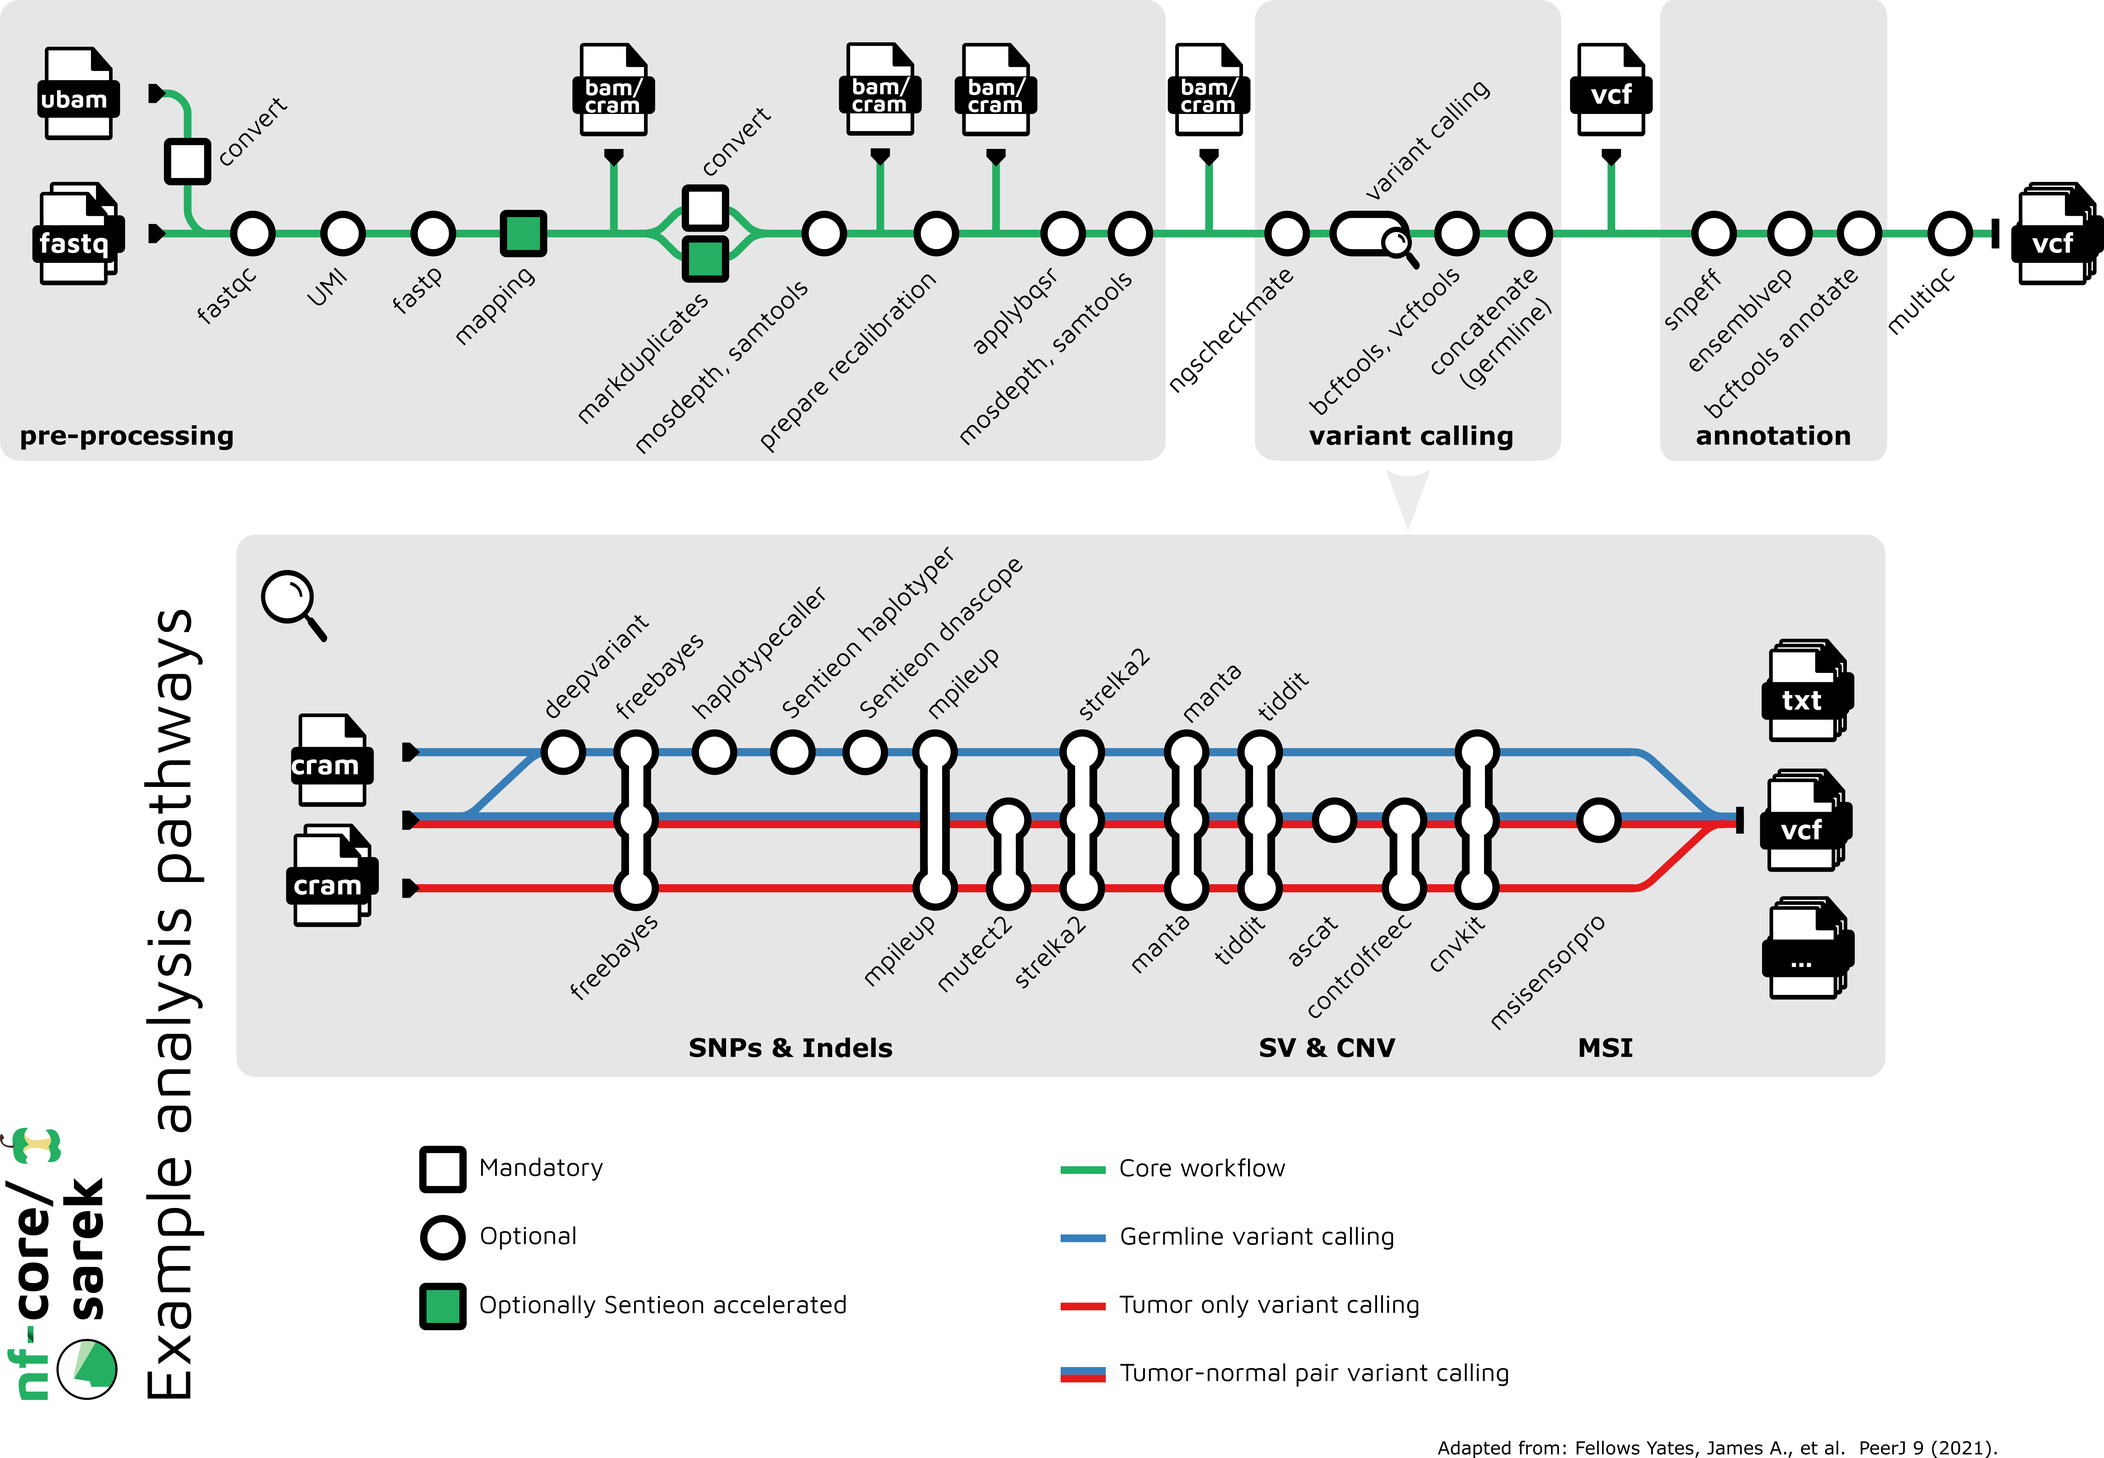
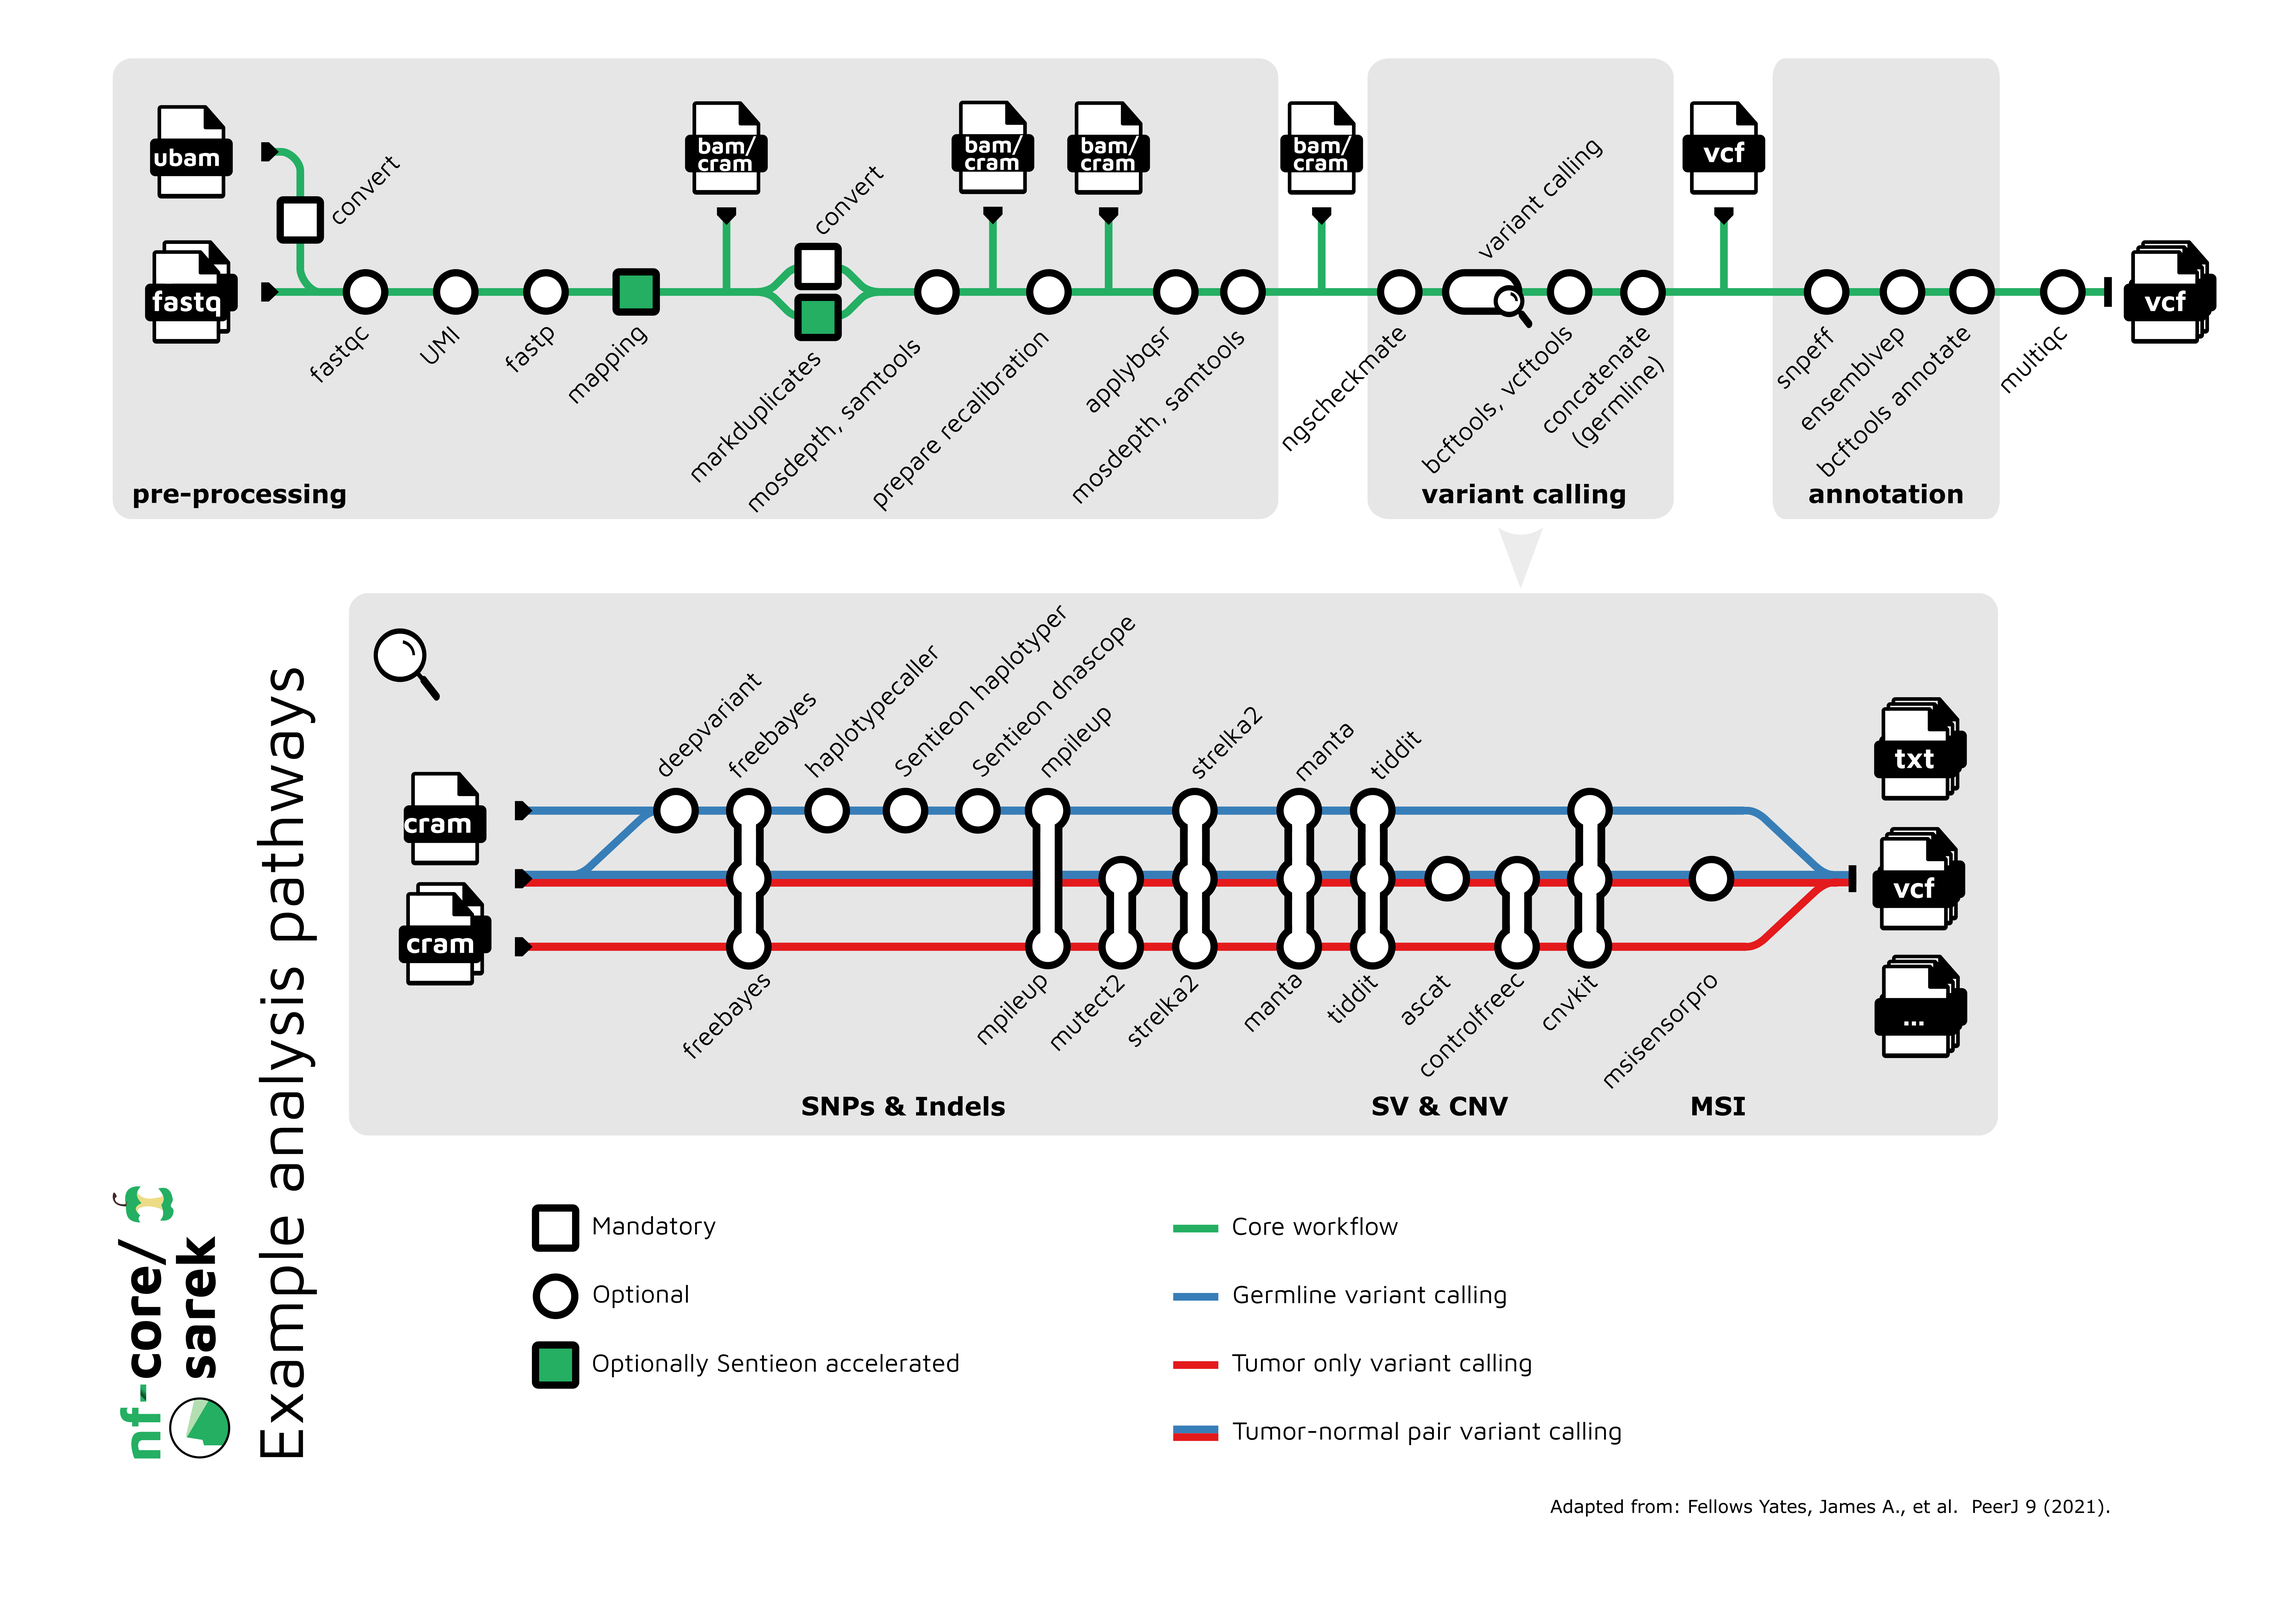
update subway map

diff --git a/CHANGELOG.md b/CHANGELOG.md
@@ -15,6 +15,7 @@ and this project adheres to [Semantic Versioning](https://semver.org/spec/v2.0.0
 ### Changed
 
 - [#1280](https://github.com/nf-core/sarek/pull/1280) - Replacing link to `SentieonDNAscopeModel1.1.model` in Sentieon's S3 with link to same file in igenomes' S3
+- [#1317](https://github.com/nf-core/sarek/pull/1317) - Add new tools to subway map
 
 ### Fixed
 
